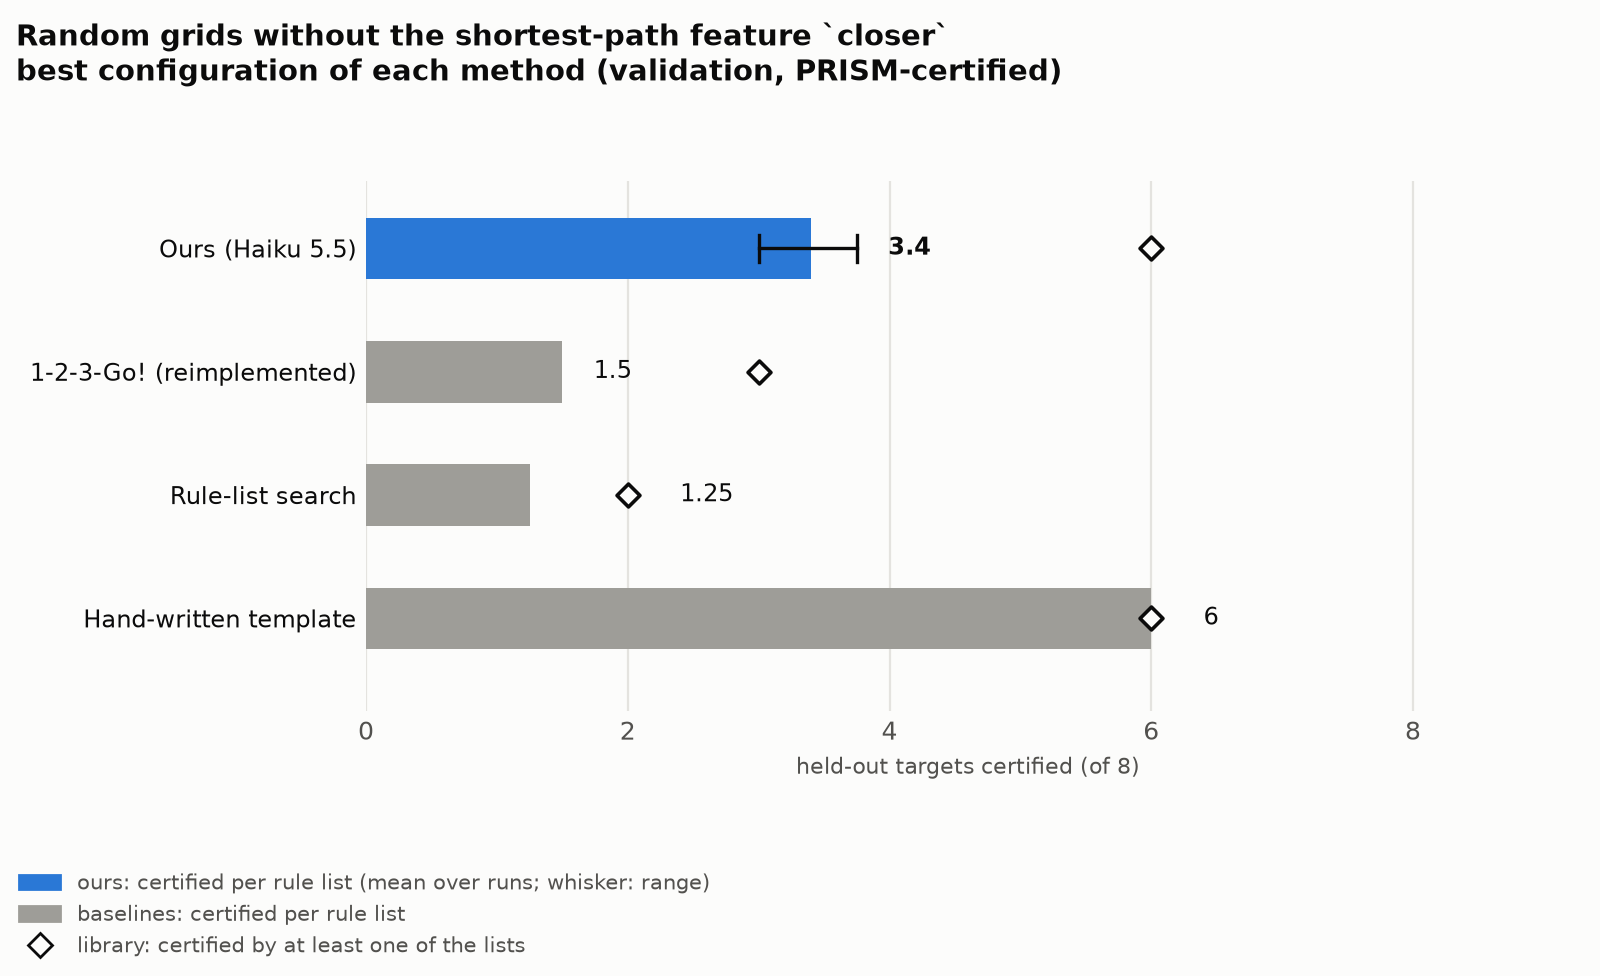
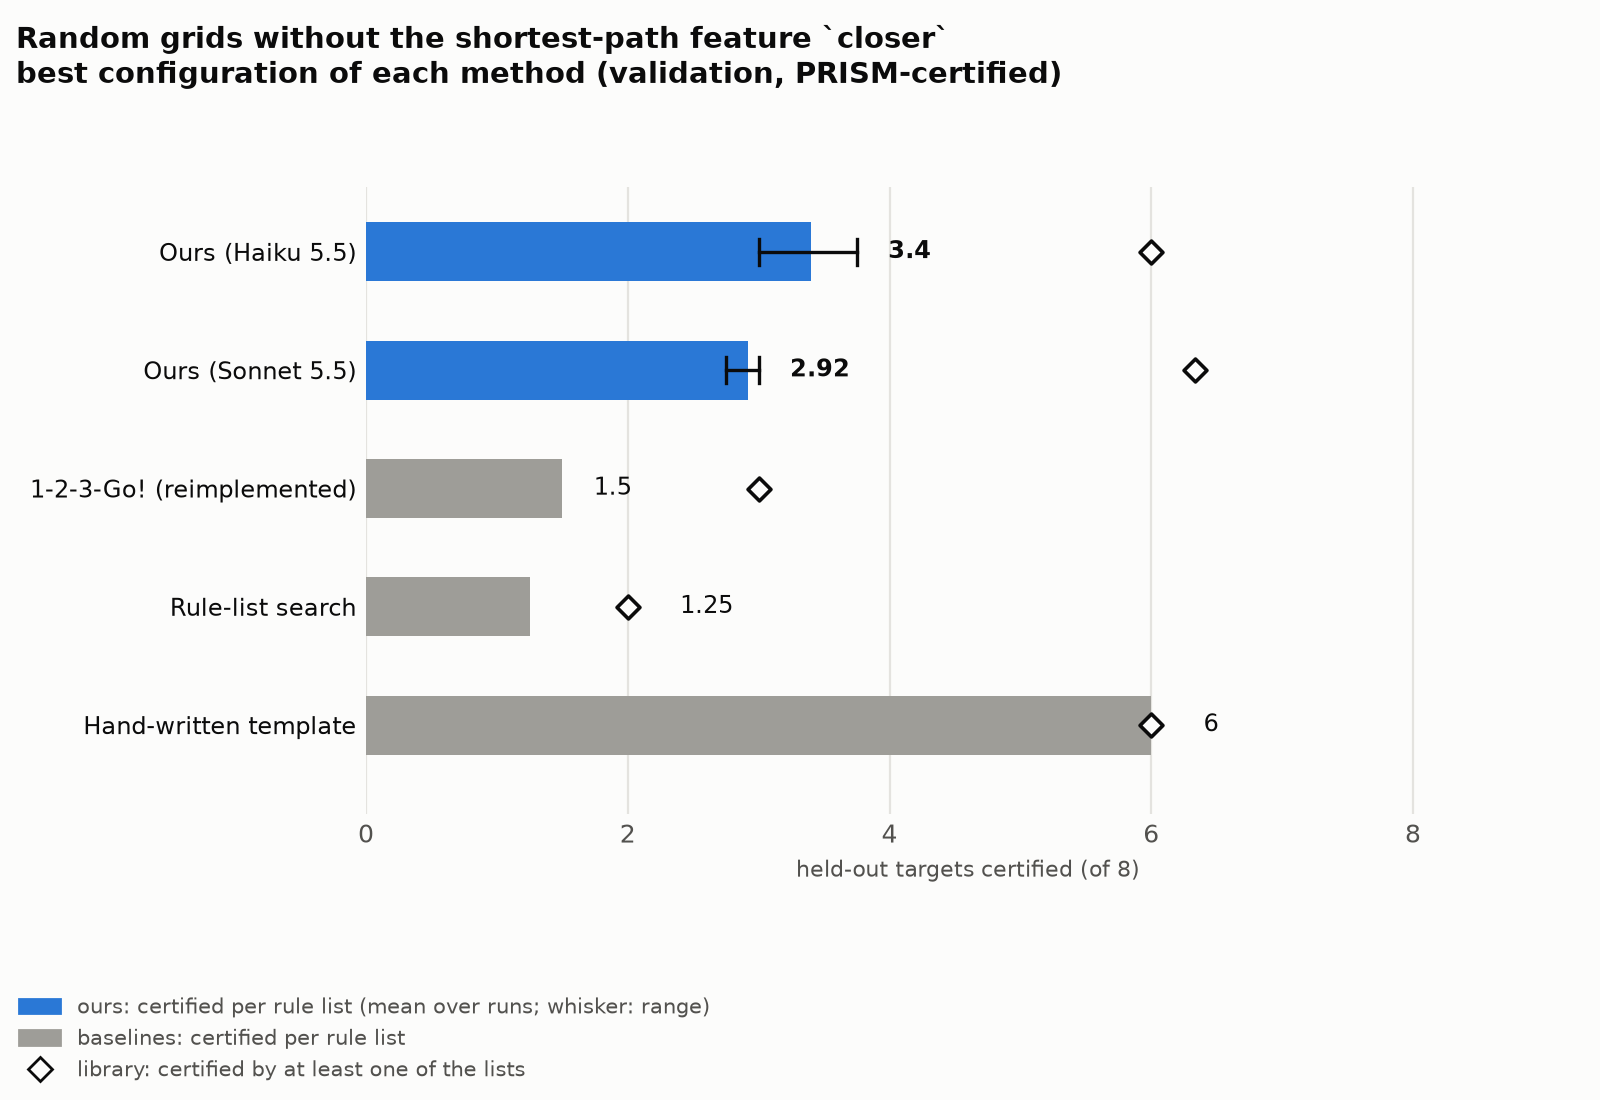
RQ1: the ported clean-slate method and verifier narrowing as cells of ours; Pac-Man baselines with positions
Cells may set `rules` (e.g. determinized, for lists that keep `any`): certified then counts those rules and ties
open counts the final ones. Report rebuilt from the runs so far (MER and MER across n: 6/6, a tie; Pac-Man:
narrowing 3.6 of 6, 1-2-3-Go! 4); grids, grids without closer and families of the new cell are still running.

diff --git a/PRISM-Guided-Learning/src/experiments/base.py b/PRISM-Guided-Learning/src/experiments/base.py
@@ -16,7 +16,7 @@ import subprocess
 import sys
 from dataclasses import dataclass, field
 from pathlib import Path
-from typing import Any, Callable, Dict, List, Optional
+from typing import Any, Callable, Dict, List, Optional, Tuple
 
 import pandas as pd
 import yaml
@@ -55,6 +55,8 @@ class Cell:
     launch: bool = True                         # false: only use existing runs (e.g. Sonnet, which needs approval)
     note: str = ""
     method: str = ""                            # comparisons: the method this configuration belongs to
+    rules: str = "final"                        # the rules "certified" counts (transfer.py --rules); with another
+                                                # than final, "ties open" counts the final rules (they keep `any`)
 
 
 @dataclass
@@ -131,7 +133,8 @@ def load_experiment(path: Path) -> dict:
                           set={b: list(sets.get(b) or []) for b in names},
                           condition=dict(spec.get("condition") or {}), only=_cell_benches(spec, names),
                           repeats=spec.get("repeats", data.get("repeats", 3)), launch=spec.get("launch", True),
-                          note=spec.get("note", ""), method=spec.get("method", "")))
+                          note=spec.get("note", ""), method=spec.get("method", ""),
+                          rules=spec.get("rules", "final")))
     return {**data, "benchmarks": benches, "cells": cells, "path": Path(path)}
 
 
@@ -202,7 +205,7 @@ class Experiment:
         """Certify a run's rules on the unit's targets, as written and with ties left open (skipped when done)."""
         log = run_dir.parent / f"{run_dir.name}.log"
         targets = parse_ids(unit.bench.targets)
-        for rules in RULES:
+        for rules in dict.fromkeys(cell_rules(unit.cell)):
             if transfer_done(run_dir, unit.dataset(), targets, rules):
                 continue
             cmd = [PYTHON, "src/transfer.py", str(run_dir), "--targets", unit.bench.targets, "--rules", rules,
@@ -232,10 +235,11 @@ class Experiment:
         rows = []
         for u in self.units:
             targets = parse_ids(u.bench.targets)
+            certified, ties_open = cell_rules(u.cell)
             for r in u.runs:
-                final = transfer_numbers(csv_path(r, u.dataset(), "final"), targets, u.bench.groups,
+                final = transfer_numbers(csv_path(r, u.dataset(), certified), targets, u.bench.groups,
                                          u.bench.source_groups)
-                opened = transfer_numbers(csv_path(r, u.dataset(), "open"), targets, u.bench.groups,
+                opened = transfer_numbers(csv_path(r, u.dataset(), ties_open), targets, u.bench.groups,
                                           u.bench.source_groups)
                 rows.append({"bench": u.bench.name, "cell": u.cell.name, "code": u.cell.code,
                              "dir": f"{r.parent.name}/{r.name}", **run_numbers(r, self.prices), **final,
@@ -287,6 +291,12 @@ def held_out(bench: Benchmark) -> List[int]:
         return targets
     trained = {i for s in cfg.run.train_sets for i in s}
     return [t for t in targets if t not in trained]
+
+
+def cell_rules(cell: Cell) -> Tuple[str, str]:
+    """The transfer.py rules a cell's "certified" and "ties open" columns count: final and open by default; with
+    `rules` set (e.g. determinized, for lists that keep `any`), those rules and the final ones."""
+    return RULES if cell.rules == "final" else (cell.rules, "final")
 
 
 def transfer_done(run_dir: Path, dataset: str, targets: List[int], rules: str = "final") -> bool:

diff --git a/PRISM-Guided-Learning/src/experiments/comparison.py b/PRISM-Guided-Learning/src/experiments/comparison.py
@@ -18,7 +18,7 @@ import numpy as np
 import pandas as pd
 
 from config import load_config, load_file
-from experiments.base import Benchmark, Experiment, held_out, span
+from experiments.base import Benchmark, Experiment, cell_rules, held_out, span
 from experiments.metrics import transfer_numbers
 from experiments.store import CORE_PATH
 from run_baseline import BASELINES_PATH, BaselineConfig
@@ -282,7 +282,8 @@ class Comparison(Experiment):
         baseline's sources."""
         for u in self.units:
             if u.cell.name == name and u.bench.name == bench.name:
-                frames = [pd.read_csv(p) for p in (csv_path(r, u.dataset(), "final") for r in u.runs) if p.exists()]
+                rules = cell_rules(u.cell)[0]
+                frames = [pd.read_csv(p) for p in (csv_path(r, u.dataset(), rules) for r in u.runs) if p.exists()]
                 return [df[df.source == s] for df in frames for s in df.source.unique()]
         for base in self.baselines():
             if base["name"] == name and bench.name in base["config"]:

diff --git a/PRISM-Guided-Learning/out/results/experiments/rq1_comparison/REPORT.md b/PRISM-Guided-Learning/out/results/experiments/rq1_comparison/REPORT.md
@@ -13,7 +13,7 @@ Targets 12-19: 8 held out (each list's own training instances are left out).
 | method | configuration | figure | runs | certified | every target | best list | library | ties open | sets solved | $ / set |
 |---|---|---|---|---|---|---|---|---|---|---|
 | Ours (Haiku 5.5) | **Ours, Haiku 5.5** | ✓ | 5 | 6.25 (5.50–7.00) | 6.25 (5.50–7.00) | 7 (6–8) | 8.0 | 5.20 (4.00–6.25) | 10% (0%–25%) | 0.010 (0.008–0.012) |
-| Ours (Sonnet 5.5) | **Ours, Sonnet 5.5** | ✓ | 3 | 6.67 (5.75–7.25) | 6.67 (5.75–7.25) | 8 (7–8) | 8.0 | – | 75% | 0.493 (0.420–0.621) |
+| Ours (Sonnet 5.5) | **Ours, Sonnet 5.5** | ✓ | 3 | 6.67 (5.75–7.25) | 6.67 (5.75–7.25) | 8 (7–8) | 8.0 | 6.42 (5.50–7.00) | 75% | 0.493 (0.420–0.621) |
 | 1-2-3-Go! (reimplemented) | 1-2-3-Go! (reimplemented: trees over raw variables) |  | – | 0.00 | 0.00 | 0 | 0.0 | 0.00 | – | – |
 | 1-2-3-Go! (reimplemented) | 1-2-3-Go! with our features | ✓ | – | 3.75 | 3.75 | 7 | 7.0 | 3.75 | – | – |
 | Rule-list search | Rule-list search | ✓ | – | 4.50 | 4.50 | 7 | 7.0 | 2.75 | – | – |
@@ -30,6 +30,7 @@ Targets 12-19: 8 held out (each list's own training instances are left out).
 | method | configuration | figure | runs | certified | every target | best list | library | ties open | sets solved | $ / set |
 |---|---|---|---|---|---|---|---|---|---|---|
 | Ours (Haiku 5.5) | **Ours, Haiku 5.5** | ✓ | 5 | 3.40 (3.00–3.75) | 3.40 (3.00–3.75) | 4 (4–5) | 6.0 (5.0–7.0) | 0.00 | 0% | 0.011 (0.010–0.012) |
+| Ours (Sonnet 5.5) | **Ours, Sonnet 5.5** | ✓ | 3 | 2.92 (2.75–3.00) | 2.92 (2.75–3.00) | 3 (3–4) | 6.3 (6.0–7.0) | 0.58 (0.50–0.75) | 50% | 0.963 (0.840–1.206) |
 | 1-2-3-Go! (reimplemented) | 1-2-3-Go! with our features | ✓ | – | 1.50 | 1.50 | 2 | 3.0 | 1.50 | – | – |
 | Rule-list search | Rule-list search | ✓ | – | 1.25 | 1.25 | 2 | 2.0 | 0.50 | – | – |
 | Hand-written template | Hand-written template | ✓ | – | 6.00 | 6.00 | 6 | 6.0 | 6.00 | – | – |
@@ -43,7 +44,7 @@ Targets 16-35,76-95,136-155: 60 held out (each list's own training instances are
 | method | configuration | figure | runs | certified | every target | best list | library | ties open | sets solved | $ / set |
 |---|---|---|---|---|---|---|---|---|---|---|
 | Ours (Haiku 5.5) | **Ours, Haiku 5.5** | ✓ | 5 | 9.67 (5.67–15.00) | 19.20 (9.33–30.67) | 17 (12–19) | 33.8 (24.0–56.0) | 3.07 (0.33–5.67) | 40% (33%–67%) | 0.008 (0.007–0.011) |
-| Ours (Sonnet 5.5) | **Ours, Sonnet 5.5** | ✓ | 3 | 14.00 (12.67–15.00) | 32.33 (29.00–36.67) | 19 | 54.3 (45.0–59.0) | – | 67% | 0.787 (0.663–0.932) |
+| Ours (Sonnet 5.5) | **Ours, Sonnet 5.5** | ✓ | 3 | 14.00 (12.67–15.00) | 32.33 (29.00–36.67) | 19 | 54.3 (45.0–59.0) | 6.56 (5.67–7.33) | 67% | 0.787 (0.663–0.932) |
 | 1-2-3-Go! (reimplemented) | 1-2-3-Go! (reimplemented: trees over raw variables) |  | – | 0.00 | 0.00 | 0 | 0.0 | 0.00 | – | – |
 | 1-2-3-Go! (reimplemented) | 1-2-3-Go! with our features | ✓ | – | 12.33 | 20.33 | 19 | 43.0 | 12.33 | – | – |
 | Rule-list search | Rule-list search | ✓ | – | 6.00 | 11.00 | 10 | 21.0 | 3.00 | – | – |
@@ -72,13 +73,18 @@ Targets 0-7,9: 6 held out (each list's own training instances are left out).
 
 | method | configuration | figure | runs | certified | every target | best list | library | ties open | sets solved | $ / set |
 |---|---|---|---|---|---|---|---|---|---|---|
-| Ours (Haiku 5.5) | **Ours, Haiku 5.5** | ✓ | 5 | 2.40 (1.00–3.00) | 2.40 (1.00–3.00) | 2 (1–3) | 2.4 (1.0–3.0) | 2.40 (1.00–3.00) | 40% (0%–100%) | 0.006 (0.004–0.008) |
+| Ours (Haiku 5.5) | **Ours, Haiku 5.5** |  | 5 | 2.40 (1.00–3.00) | 2.40 (1.00–3.00) | 2 (1–3) | 2.4 (1.0–3.0) | 2.40 (1.00–3.00) | 40% (0%–100%) | 0.006 (0.004–0.008) |
+| Ours (Haiku 5.5) | **Ours, Haiku 5.5, family prompt, failure feedback and pick** |  | 3 | 3.00 | 3.00 | 3 | 3.0 | 3.00 | 100% | 0.104 (0.090–0.116) |
+| Ours (Haiku 5.5) | **Ours, Haiku 5.5, verifier narrowing** | ✓ | 5 | 3.60 (2.00–4.00) | 3.60 (2.00–4.00) | 4 (2–4) | 3.6 (2.0–4.0) | – | 80% (0%–100%) | 0.009 (0.001–0.014) |
+| Ours (Sonnet 5.5) | **Ours, Sonnet 5.5** | ✓ | 3 | 2.33 (1.00–3.00) | 2.33 (1.00–3.00) | 2 (1–3) | 2.3 (1.0–3.0) | 2.33 (1.00–3.00) | 67% (0%–100%) | 0.146 (0.072–0.241) |
 | 1-2-3-Go! (reimplemented) | 1-2-3-Go! (reimplemented: trees over raw variables) | ✓ | – | 4.00 | 4.00 | 4 | 4.0 | 4.00 | – | – |
 | 1-2-3-Go! (reimplemented) | 1-2-3-Go! trained on horizon 5 (as the paper) |  | – | 2.00 | 2.00 | 2 | 2.0 | 2.00 | – | – |
 | 1-2-3-Go! (reimplemented) | 1-2-3-Go! with our features |  | – | 2.00 | 2.00 | 2 | 2.0 | 2.00 | – | – |
 | 1-2-3-Go! (reimplemented) | 1-2-3-Go! with our features, trained on horizon 5 |  | – | 0.00 | 0.00 | 0 | 0.0 | 0.00 | – | – |
+| 1-2-3-Go! (reimplemented) | 1-2-3-Go! with our features and positions |  | – | 3.00 | 3.00 | 3 | 3.0 | 3.00 | – | – |
 | PPO | PPO with our features | ✓ | – | 3.00 | 3.00 | 3 | 3.0 | 3.00 | – | – |
 | PPO | PPO over raw variables |  | – | 3.00 | 3.00 | 3 | 3.0 | 3.00 | – | – |
+| PPO | PPO with our features and positions |  | – | 3.00 | 3.00 | 3 | 3.0 | 3.00 | – | – |
 | Uniform random policy | Uniform random policy | ✓ | – | 0.00 | 0.00 | 0 | 0.0 | 0.00 | – | – |
 | Best of 1000 random policies | Best of 1000 random policies | ✓ | – | 3.00 | 3.00 | 3 | 3.0 | 3.00 | – | – |
 | Strategy of one instance | Strategy of horizon 18, by moves made | ✓ | – | 2.00 | 2.00 | 2 | 2.0 | 2.00 | – | – |
@@ -97,7 +103,9 @@ Targets 0-8: 6 held out (each list's own training instances are left out).
 
 | method | configuration | figure | runs | certified | every target | best list | library | ties open | sets solved | $ / set |
 |---|---|---|---|---|---|---|---|---|---|---|
-| Ours (Haiku 5.5) | **Ours, Haiku 5.5** | ✓ | 5 | 2.40 (0.00–3.00) | 2.40 (0.00–3.00) | 2 (0–3) | 2.4 (0.0–3.0) | – | 0% | 0.028 (0.019–0.045) |
+| Ours (Haiku 5.5) | **Ours, Haiku 5.5** |  | 5 | 2.40 (0.00–3.00) | 2.40 (0.00–3.00) | 2 (0–3) | 2.4 (0.0–3.0) | 2.40 (0.00–3.00) | 0% | 0.028 (0.019–0.045) |
+| Ours (Haiku 5.5) | **Ours, Haiku 5.5, family prompt, failure feedback and pick** | ✓ | 3 | 6.00 | 6.00 | 6 | 6.0 | 6.00 | 100% | 0.337 (0.296–0.366) |
+| Ours (Sonnet 5.5) | **Ours, Sonnet 5.5** | ✓ | 3 | 5.00 (3.00–6.00) | 5.00 (3.00–6.00) | 5 (3–6) | 5.0 (3.0–6.0) | 4.00 (3.00–6.00) | 67% (0%–100%) | 0.254 (0.090–0.400) |
 | 1-2-3-Go! (reimplemented) | 1-2-3-Go! (reimplemented: trees over raw variables) | ✓ | – | 6.00 | 6.00 | 6 | 6.0 | 6.00 | – | – |
 | 1-2-3-Go! (reimplemented) | 1-2-3-Go! trained on n = 1 (as the paper) |  | – | 2.00 | 2.00 | 2 | 2.0 | 2.00 | – | – |
 | 1-2-3-Go! (reimplemented) | 1-2-3-Go! with our features |  | – | 3.00 | 3.00 | 3 | 3.0 | 3.00 | – | – |
@@ -115,7 +123,9 @@ Targets 0-8: 6 held out (each list's own training instances are left out).
 
 | method | configuration | figure | runs | certified | every target | best list | library | ties open | sets solved | $ / set |
 |---|---|---|---|---|---|---|---|---|---|---|
-| Ours (Haiku 5.5) | **Ours, Haiku 5.5** | ✓ | 5 | 2.40 (0.00–6.00) | 2.40 (0.00–6.00) | 2 (0–6) | 2.4 (0.0–6.0) | – | 40% (0%–100%) | 0.019 (0.007–0.034) |
+| Ours (Haiku 5.5) | **Ours, Haiku 5.5** |  | 5 | 2.40 (0.00–6.00) | 2.40 (0.00–6.00) | 2 (0–6) | 2.4 (0.0–6.0) | 2.40 (0.00–6.00) | 40% (0%–100%) | 0.019 (0.007–0.034) |
+| Ours (Haiku 5.5) | **Ours, Haiku 5.5, family prompt, failure feedback and pick** | ✓ | 3 | 6.00 | 6.00 | 6 | 6.0 | 6.00 | 100% | 0.370 (0.258–0.484) |
+| Ours (Sonnet 5.5) | **Ours, Sonnet 5.5** | ✓ | 3 | 6.00 | 6.00 | 6 | 6.0 | 6.00 | 100% | 0.227 (0.154–0.276) |
 | 1-2-3-Go! (reimplemented) | 1-2-3-Go! (reimplemented: trees over raw variables) | ✓ | – | 6.00 | 6.00 | 6 | 6.0 | 6.00 | – | – |
 | 1-2-3-Go! (reimplemented) | 1-2-3-Go! trained on n = 1 (as the paper) |  | – | 0.00 | 0.00 | 0 | 0.0 | 0.00 | – | – |
 | 1-2-3-Go! (reimplemented) | 1-2-3-Go! with our features |  | – | 0.00 | 0.00 | 0 | 0.0 | 0.00 | – | – |
